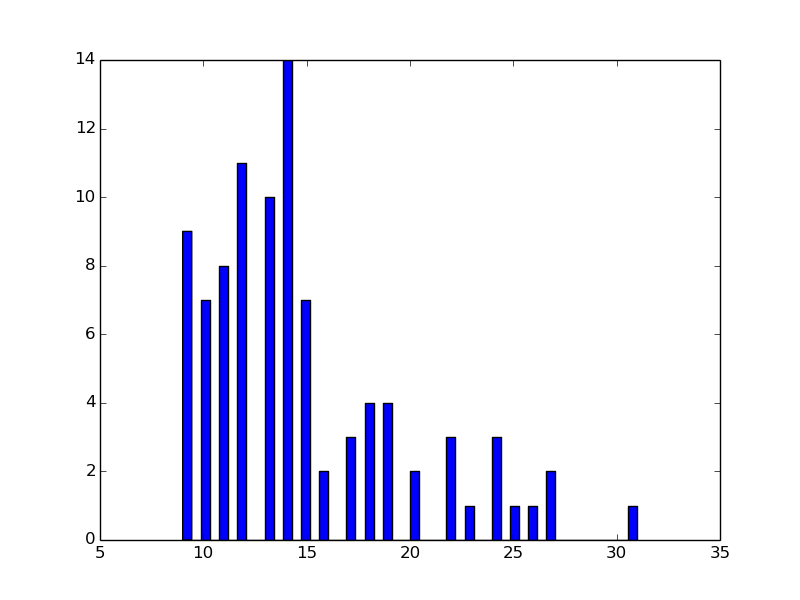
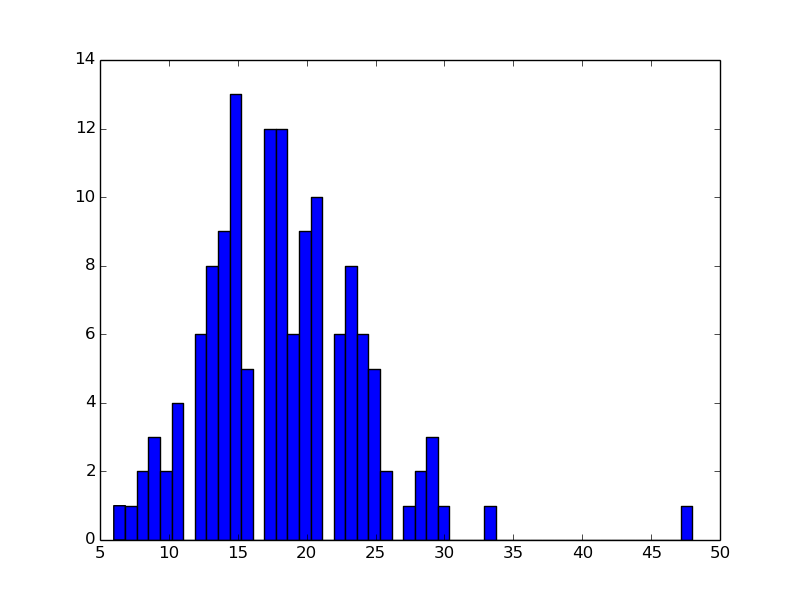
change to rcnn

diff --git a/poserecog/bucket_io.py b/poserecog/bucket_io.py
@@ -64,7 +64,7 @@ class DummyIter(mx.io.DataIter):
 class BucketSentenceIter(mx.io.DataIter):
     def __init__(self, buckets, batch_size,
                  data_name='data', label_name='label',
-                 model_parallel=False, dataPath = './data', aug = False):
+                 model_parallel=False, dataPath = './data', train = False):
         super(BucketSentenceIter, self).__init__()
 
         # pre-allocate with the largest bucket for better memory sharing
@@ -73,7 +73,7 @@ class BucketSentenceIter(mx.io.DataIter):
         self.buckets = buckets
         self.data = [[] for _ in buckets]
         self.tmpLabel = []
-        self.aug = aug
+        self.train = train
 
 
 
@@ -216,15 +216,21 @@ class BucketSentenceIter(mx.io.DataIter):
         self.bucket_curr_idx = [0 for x in self.data]
 
     def dLoader(self):
-        print( 'reading from ' + self.data_path )
-        flist = [x.split('/')[-1] for x in  glob.glob(self.data_path + '/*')]
-        cates = set([x.split('_')[0] for x in flist])
+        with open('split.json', 'r') as f:
+          split = json.load(f)
+        if self.train:
+          split = split['train']
+        else:
+          split = split['val']
+        print( 'reading from %s, phase train %d' % (self.data_path,self.train) )
+        cates = set([x.split('_')[0] for x in split])
         print 'categories: ' + str(cates)
 
         data = {}
         # get data path
         for cate in cates:
-            data[cate] = glob.glob( self.data_path + '/' + cate + '*.json' )
+            data[cate] = sum([glob.glob('%s/%s*.json'%(self.data_path,x))\
+                          for x in split if cate in x] ,[])
 
         trainX = []
         trainY = []
@@ -251,7 +257,7 @@ class BucketSentenceIter(mx.io.DataIter):
                 trainY.append(y)
         print str(len(trainY)) + ' samples'
     
-        if self.aug:
+        if self.train:
           for it in range(0, 5):
             trainX += trainX
             trainY += trainY    

diff --git a/train_lstm.py b/train_lstm.py
@@ -36,8 +36,11 @@ init_h = [('l%d_init_h'%l, (lcf.batch_size, lcf.num_hidden)) \
           for l in range(lcf.num_lstm_layer)]
 init_states = init_c + init_h
 
-data_train = BucketSentenceIter(lcf.buckets, lcf.batch_size,dataPath = 'out', aug = True )
-data_val = BucketSentenceIter(lcf.buckets, lcf.batch_size,dataPath = 'out' )
+data_train = BucketSentenceIter(lcf.buckets, lcf.batch_size,\
+                                dataPath = 'out', train = True )
+data_val = BucketSentenceIter(lcf.buckets, lcf.batch_size,\
+                                dataPath = 'out' )
+
 data_train.provide_data += init_states
 data_val.provide_data += init_states
 
@@ -56,7 +59,7 @@ batch_end_callbacks = [mx.callback.Speedometer(lcf.batch_size, lcf.disp_batches)
 batch_end_callbacks.append(monitor_train)
 #batch_end_callbacks.append(mon_grad)
 
-lr_scheduler = mx.lr_scheduler.MultiFactorScheduler(step=[8000,15000], factor=0.5)
+lr_scheduler = mx.lr_scheduler.MultiFactorScheduler(step=[5000,10000], factor=0.5)
 optimizer = mx.optimizer.SGD(learning_rate = 0.01, momentum = 0, wd = 0.0001,\
                   lr_scheduler = lr_scheduler, rescale_grad = 1./lcf.batch_size)
 

diff --git a/split.py b/split.py
@@ -17,15 +17,16 @@ class_map = {}
 for c in keys:
   class_map[c] = [v for v in vid_list if c == v.split('/')[cate_pos]]
 
-print 'has %d categories' % len(keys)
-print keys
-print class_map[keys[0]]
 
 
+from sklearn.model_selection import train_test_split
+train_l = [];val_l=[]
 for k in keys:
-  for v in class_map[k]:
-    n = v.split(suffix)[0].split('/')[-1]
-    img_path = '%s/%s_%s_%s' % (out_path, k, n, '%04d.jpg')
-    cmd = '%s/ffmpeg -i %s -r %d %s' % (bin_path, v, fps, img_path)
-    a = subprocess.check_output(cmd, shell = True, stderr=subprocess.STDOUT)
-    print a
+  lbs = ['%s_%s'%(k,x.split(suffix)[0].split('/')[-1]) for x in class_map[k]]
+  train,val = train_test_split(lbs,test_size=0.3)
+  train_l += train; val_l += val
+
+pdb.set_trace()
+import json
+with open('split.json','w') as f:
+  json.dump({'train':train_l,'val':val_l}, f)

diff --git a/example.py b/example.py
@@ -3,9 +3,10 @@ import poserecog.pipe as pipe
 import glob
 
 config_path = 'model/model.config'
+base_path = 'dataset/pose'
+
 piper = pipe.Pipeline(config_path)
 
-base_path = 'dataset/weizmann'
 img_list = glob.glob(base_path+'/*.jpg')
 scls = set([x.split('/')[-1].rsplit('_',1)[0] for x in img_list])
 print '%d videos' % len(scls)

diff --git a/README.md b/README.md
@@ -1,1 +1,6 @@
 # dyn_pose
+## Notes
+- do pose norm in bucket.io
+- change bucket size to reduce lag
+- change box size to red lag
+- change net structure to red lag
